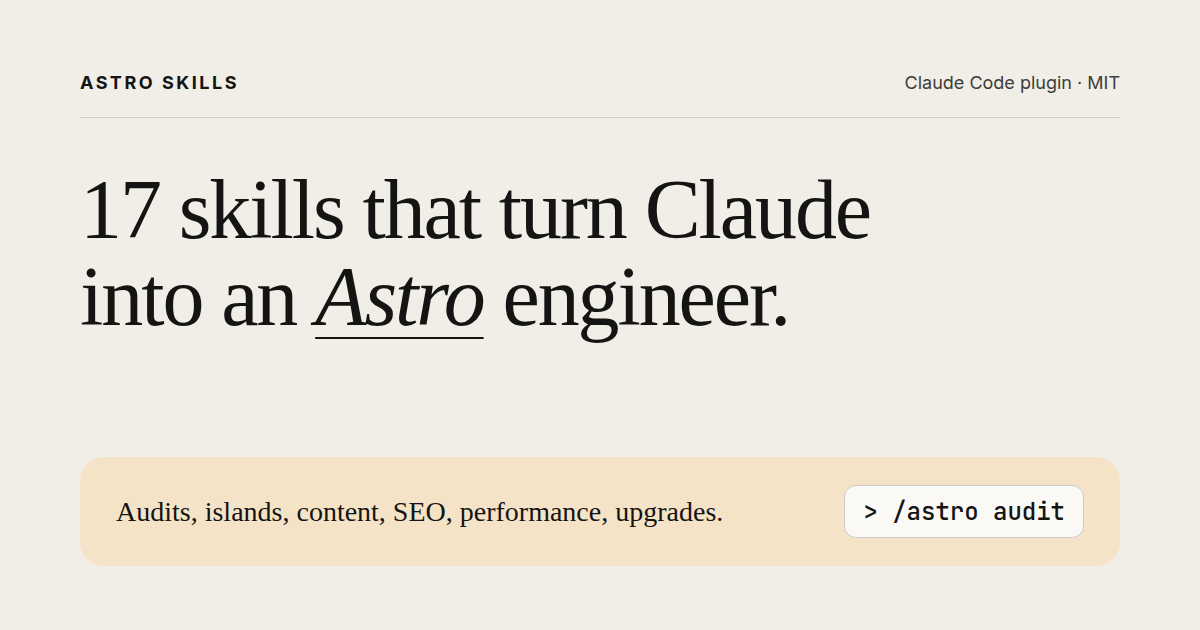
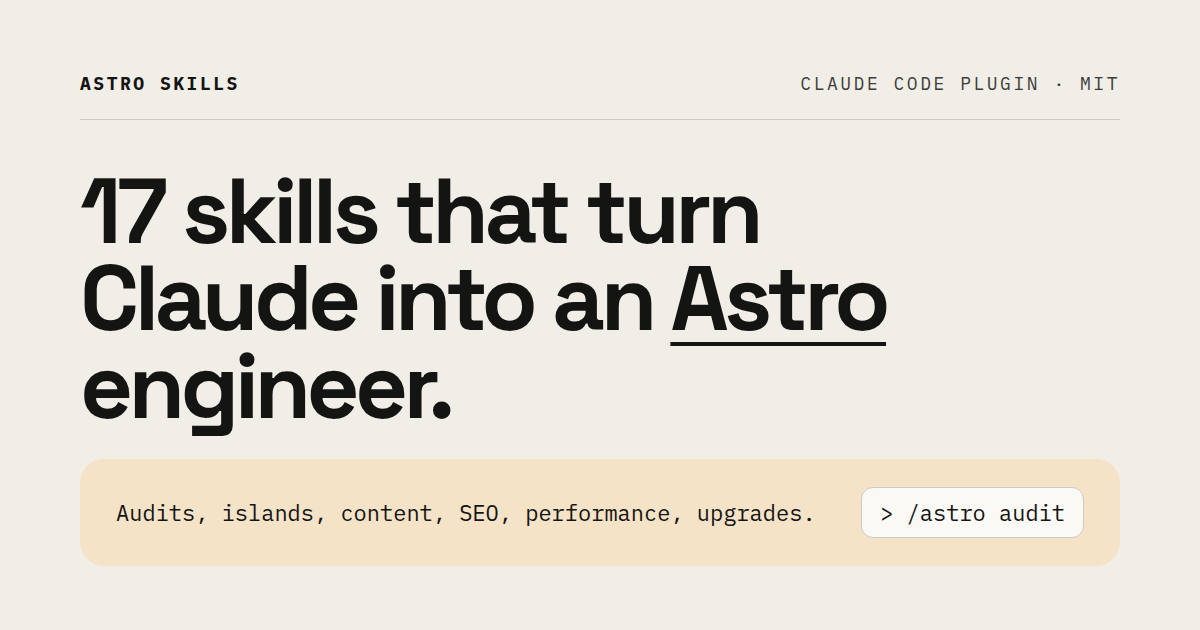
Switch landing typography to Space Grotesk and IBM Plex Mono
Match the type system of the reference landing: Space Grotesk bold
with tight negative tracking for headings, titles and large numbers,
and IBM Plex Mono as the page default for body copy, code and UI.
Nav links, buttons and labels become small uppercase mono with wide
letter-spacing. Fonts stay self-hosted via Fontsource with the two
latin faces preloaded; the OG image is regenerated to match.

Claude-Session: https://claude.ai/code/session_01T97LzyNCoTnk9E5A9W6iJD

diff --git a/site/src/styles/global.css b/site/src/styles/global.css
@@ -1,7 +1,7 @@
-@import '@fontsource-variable/source-serif-4/opsz.css';
-@import '@fontsource-variable/source-serif-4/opsz-italic.css';
-@import '@fontsource-variable/inter/wght.css';
-@import '@fontsource-variable/jetbrains-mono/wght.css';
+@import '@fontsource-variable/space-grotesk/wght.css';
+@import '@fontsource/ibm-plex-mono/latin-400.css';
+@import '@fontsource/ibm-plex-mono/latin-500.css';
+@import '@fontsource/ibm-plex-mono/latin-700.css';
 @import 'tailwindcss';
 
 /* =============================================================================
@@ -42,20 +42,18 @@
   --color-action: var(--color-clay);
   --color-action-hover: var(--color-clay-deep);
 
-  /* Families — self-hosted variable fonts (latin subset ~40–60 KB each), metric-close fallbacks */
-  --font-serif: 'Source Serif 4 Variable', Charter, Georgia, ui-serif, serif;
-  --font-sans: 'Inter Variable', ui-sans-serif, system-ui, -apple-system, 'Segoe UI', Roboto, sans-serif;
-  --font-mono: 'JetBrains Mono Variable', ui-monospace, 'SF Mono', Menlo, Consolas, monospace;
+  /* Families — self-hosted via Fontsource. Grotesk for display and titles, mono for everything else. */
+  --font-sans: 'Space Grotesk Variable', ui-sans-serif, system-ui, sans-serif;
+  --font-mono: 'IBM Plex Mono', ui-monospace, 'SF Mono', Menlo, Consolas, monospace;
 
   /* Type scale */
-  --text-caption: 12px;
-  --text-caption--line-height: 1.4;
-  --text-caption--letter-spacing: -0.24px;
-  --text-body-sm: 16px;
-  --text-body-sm--line-height: 1.55;
-  --text-body-sm--letter-spacing: -0.08px;
-  --text-body: 20px;
-  --text-body--line-height: 1.5;
+  --text-caption: 11px;
+  --text-caption--line-height: 1.5;
+  --text-caption--letter-spacing: 0.04em;
+  --text-body-sm: 14px;
+  --text-body-sm--line-height: 1.7;
+  --text-body: 16px;
+  --text-body--line-height: 1.7;
   --text-subheading: 24px;
   --text-subheading--line-height: 1.3;
   --text-subheading--letter-spacing: -0.05px;
@@ -74,8 +72,7 @@
     color-scheme: light;
     background: var(--color-canvas);
     color: var(--color-ink);
-    font-family: var(--font-serif);
-    font-optical-sizing: auto;
+    font-family: var(--font-mono);
     font-kerning: normal;
     text-rendering: optimizeLegibility;
     -webkit-font-smoothing: antialiased;
@@ -104,9 +101,9 @@
 
 /* tailwind-exception: rendered SKILL.md markdown has no classes to hang utilities on. */
 .prose {
-  font-family: var(--font-serif);
-  font-size: 1.1875rem;
-  line-height: 1.65;
+  font-family: var(--font-mono);
+  font-size: 0.9375rem;
+  line-height: 1.75;
   color: var(--color-ink);
 }
 .prose > * + * {
@@ -116,19 +113,20 @@
   display: none;
 }
 .prose h2 {
-  font-size: 2.125rem;
-  font-weight: 400;
-  letter-spacing: -0.02em;
-  line-height: 1.15;
+  font-family: var(--font-sans);
+  font-size: 2.25rem;
+  font-weight: 700;
+  letter-spacing: -0.04em;
+  line-height: 1;
   margin-top: 2.25em;
   padding-top: 1.25em;
   border-top: 1px solid var(--color-line);
 }
 .prose h3 {
   font-family: var(--font-sans);
-  font-size: 1.0625rem;
-  font-weight: 600;
-  letter-spacing: -0.01em;
+  font-size: 1.25rem;
+  font-weight: 700;
+  letter-spacing: -0.02em;
   margin-top: 1.75em;
 }
 .prose strong {
@@ -165,7 +163,7 @@
 }
 .prose :not(pre) > code {
   font-family: var(--font-mono);
-  font-size: 0.78em;
+  font-size: 0.92em;
   border-radius: 4px;
   background: var(--color-card);
   border: 1px solid var(--color-line);
@@ -183,9 +181,8 @@
   overflow-x: auto;
 }
 .prose blockquote {
-  border-left: 1px solid var(--color-ink);
+  border-left: 2px solid var(--color-ink);
   padding-left: 1.25rem;
-  font-style: italic;
   color: var(--color-ink-muted);
 }
 .prose table {
@@ -194,9 +191,8 @@
   width: 100%;
   overflow-x: auto;
   border-collapse: collapse;
-  font-family: var(--font-sans);
-  font-size: 0.9375rem;
-  line-height: 1.5;
+  font-size: 0.875rem;
+  line-height: 1.6;
 }
 .prose th,
 .prose td {

diff --git a/site/scripts/og.html b/site/scripts/og.html
@@ -1,17 +1,16 @@
 <!doctype html>
 <html><head><meta charset="utf-8"><style>
-  @font-face{font-family:Serif;src:url(file:///home/user/astro-skills/site/node_modules/@fontsource-variable/source-serif-4/files/source-serif-4-latin-opsz-normal.woff2)}
-  @font-face{font-family:Serif;font-style:italic;src:url(file:///home/user/astro-skills/site/node_modules/@fontsource-variable/source-serif-4/files/source-serif-4-latin-opsz-italic.woff2)}
-  @font-face{font-family:Sans;src:url(file:///home/user/astro-skills/site/node_modules/@fontsource-variable/inter/files/inter-latin-wght-normal.woff2)}
-  @font-face{font-family:Mono;src:url(file:///home/user/astro-skills/site/node_modules/@fontsource-variable/jetbrains-mono/files/jetbrains-mono-latin-wght-normal.woff2)}
-  body{margin:0;width:1200px;height:630px;background:#f0eee6;color:#141413;font-family:Sans,sans-serif;overflow:hidden;box-sizing:border-box;padding:72px 80px}
+  @font-face{font-family:Display;src:url(file:///home/user/astro-skills/site/node_modules/@fontsource-variable/space-grotesk/files/space-grotesk-latin-wght-normal.woff2);font-weight:300 700}
+  @font-face{font-family:Mono;font-weight:400;src:url(file:///home/user/astro-skills/site/node_modules/@fontsource/ibm-plex-mono/files/ibm-plex-mono-latin-400-normal.woff2)}
+  @font-face{font-family:Mono;font-weight:700;src:url(file:///home/user/astro-skills/site/node_modules/@fontsource/ibm-plex-mono/files/ibm-plex-mono-latin-700-normal.woff2)}
+  body{margin:0;width:1200px;height:630px;background:#f0eee6;color:#141413;font-family:Mono,monospace;overflow:hidden;box-sizing:border-box;padding:72px 80px}
   .top{display:flex;justify-content:space-between;align-items:center;font-size:18px;font-weight:700;letter-spacing:.14em;text-transform:uppercase;border-bottom:1px solid #cccbc8;padding-bottom:24px}
-  .top span:last-child{font-weight:400;letter-spacing:0;text-transform:none;color:#3d3d3a}
-  h1{font-family:Serif,serif;font-size:84px;line-height:1.04;letter-spacing:-.025em;font-weight:400;margin:48px 0 0;max-width:900px}
-  h1 u{font-style:italic;text-decoration-thickness:2px;text-underline-offset:12px}
+    .top span:last-child{font-weight:400;color:#3d3d3a}
+  h1{font-family:Display,sans-serif;font-size:92px;line-height:.95;letter-spacing:-.05em;font-weight:700;margin:48px 0 0;max-width:900px}
+  h1 u{text-decoration-thickness:4px;text-underline-offset:12px}
   .card{position:absolute;left:80px;right:80px;bottom:64px;background:#f5e3c7;border-radius:24px;padding:28px 36px;display:flex;justify-content:space-between;align-items:center}
-  .card p{margin:0;font-family:Serif,serif;font-size:28px}
-  .card code{font:500 24px Mono,monospace;background:#faf9f5;border:1px solid #cccbc8;border-radius:12px;padding:10px 18px}
+  .card p{margin:0;font-family:Mono,monospace;font-size:22px}
+  .card code{font:500 22px Mono,monospace;background:#faf9f5;border:1px solid #cccbc8;border-radius:12px;padding:10px 18px}
 </style></head><body>
 <div class="top"><span>Astro Skills</span><span>Claude Code plugin · MIT</span></div>
 <h1>17 skills that turn Claude into an <u>Astro</u> engineer.</h1>

diff --git a/CLAUDE.md b/CLAUDE.md
@@ -27,4 +27,4 @@ npm run scan -- <path> # run the scanner
 
 ## Site design
 
-Warm-parchment editorial system, light only (tokens in `site/src/styles/global.css`). Use role tokens (`bg-canvas`, `bg-card`, `bg-feature`, `bg-panel`, `text-ink`, `border-line`), never raw hex. Self-hosted Source Serif 4 (display headings at weight 400 with tight tracking, and body copy) and Inter (UI chrome, card titles, labels), plus JetBrains Mono for code, all via Fontsource. Never set headings in bold sans. No shadows, gradients or glows: surfaces get their depth from tone and 1px borders only. The clay `bg-action` button appears at most once per page, with dark text (light text on clay fails WCAG AA). Filled secondary buttons round only their bottom corners (`rounded-b-lg`). Inline links always show their underline.
+Warm-parchment editorial system, light only (tokens in `site/src/styles/global.css`). Use role tokens (`bg-canvas`, `bg-card`, `bg-feature`, `bg-panel`, `text-ink`, `border-line`), never raw hex. Typography, self-hosted via Fontsource: Space Grotesk (`font-sans`) bold with tight negative tracking for headings, titles and big numbers; IBM Plex Mono (`font-mono`, the page default) for body copy, code and UI. Nav, buttons and eyebrow labels are small uppercase mono with wide letter-spacing. No shadows, gradients or glows: surfaces get their depth from tone and 1px borders only. The clay `bg-action` button appears at most once per page, with dark text (light text on clay fails WCAG AA). Filled secondary buttons round only their bottom corners (`rounded-b-lg`). Inline links always show their underline.
